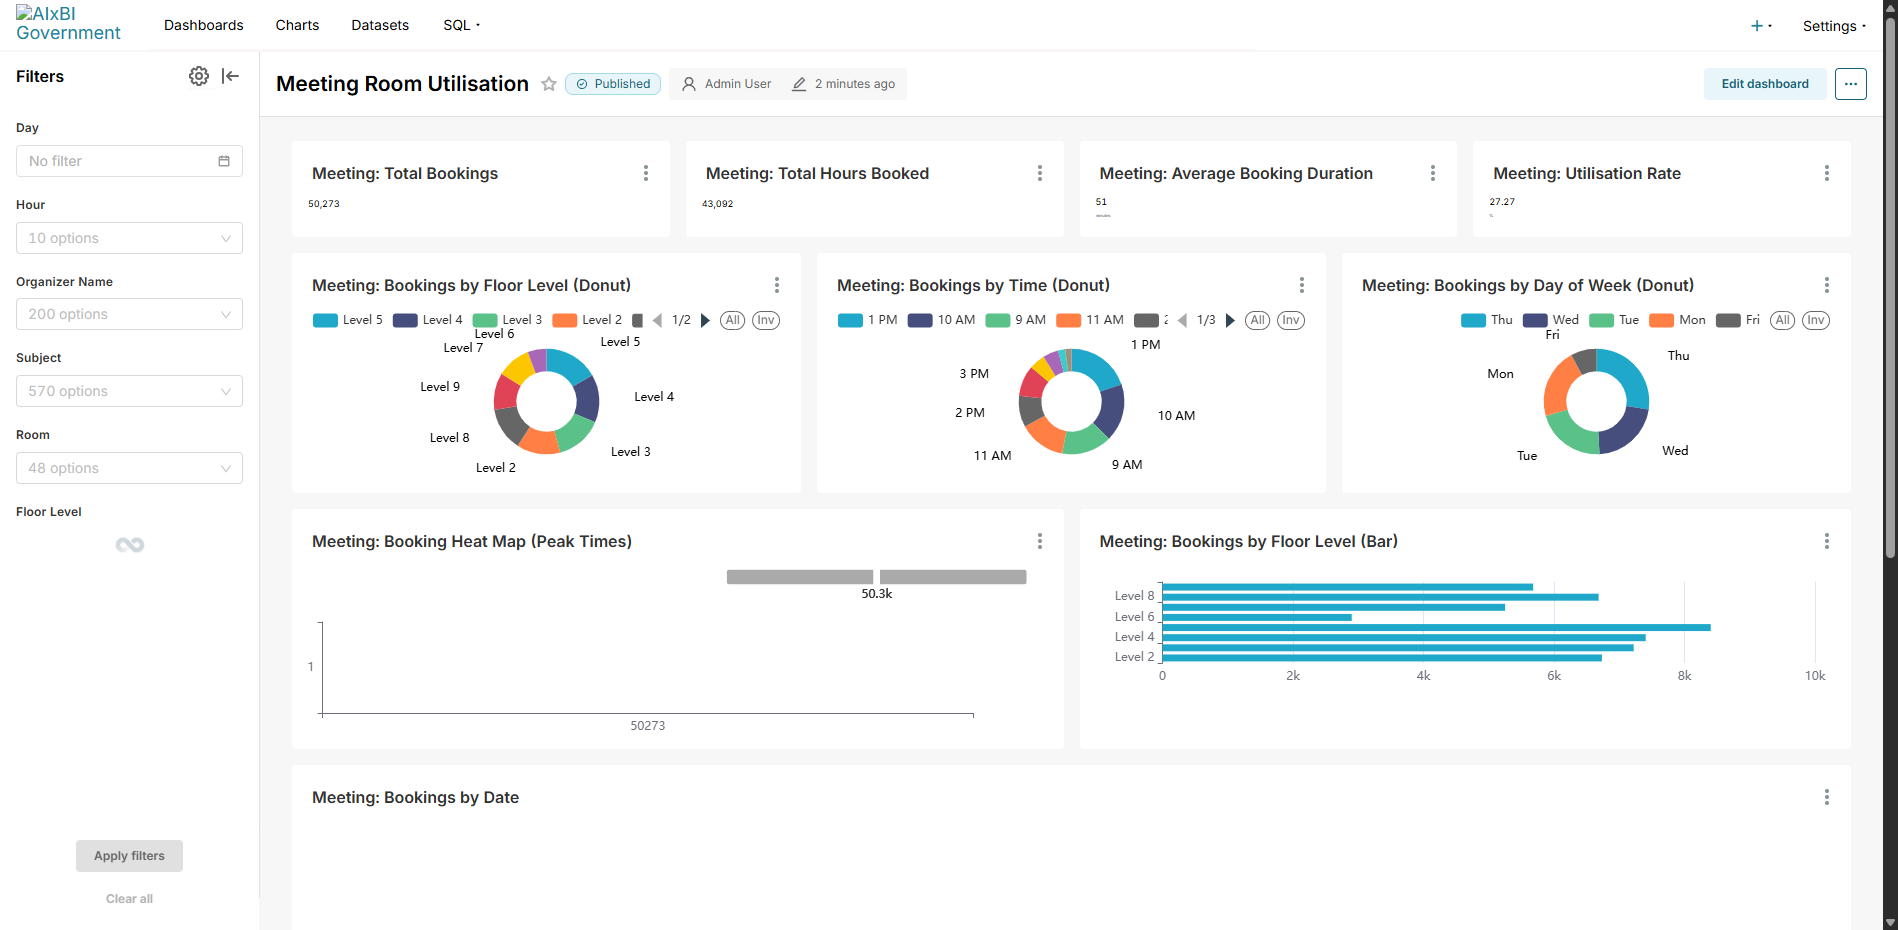
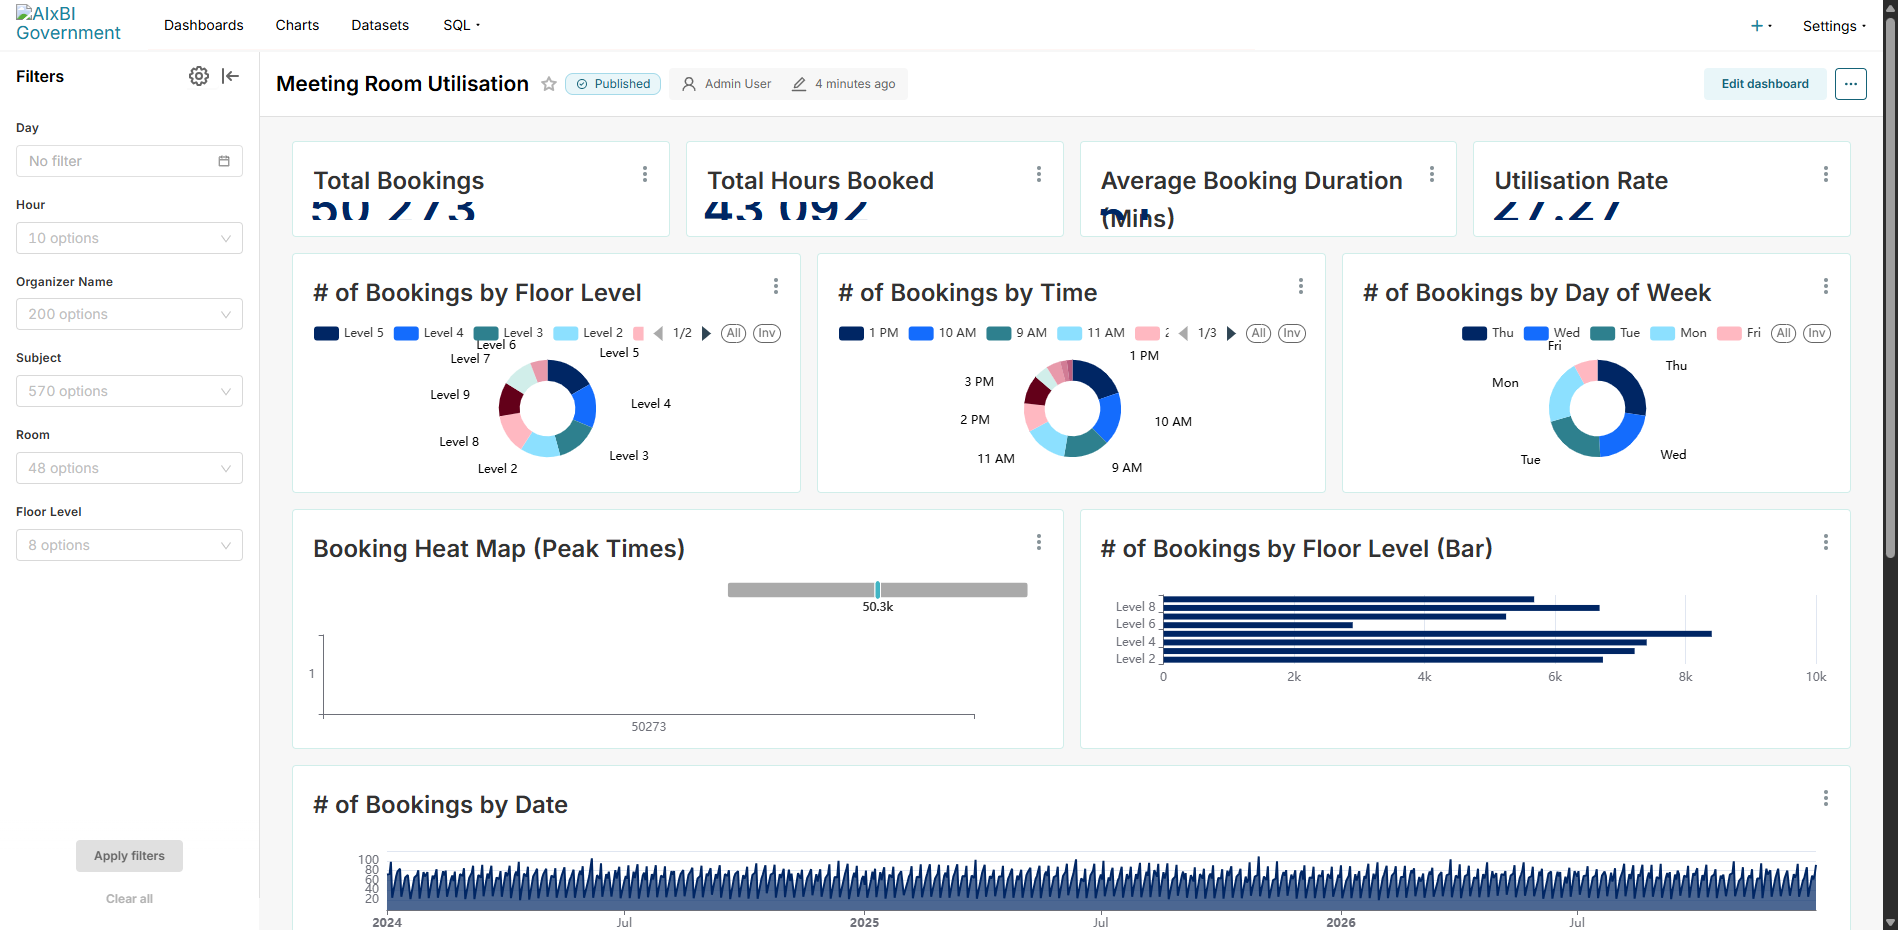
feat: polish Meeting dashboard -- custom colour scheme, CSS, KPI formatting

diff --git a/scripts/polish_meeting_charts.py b/scripts/polish_meeting_charts.py
@@ -1,0 +1,130 @@
+import sys
+import os
+import json
+sys.path.insert(0, os.path.join(os.path.dirname(__file__), ".."))
+from scripts.superset_client import api_get, api_put
+
+PINK_RED_8 = ["#ffb8c1", "#e89aab", "#d17c95", "#ba5e7f", "#a34069", "#8c2253", "#75043d", "#630019"]
+FLOOR_COLORS = {f"Level {i}": PINK_RED_8[i - 2] for i in range(2, 10)}
+DOW_COLORS = {"Mon": "#002664", "Tue": "#146cfd", "Wed": "#2e808e", "Thu": "#8ce0ff", "Fri": "#ffb8c1"}
+
+
+def get_meeting_charts():
+    data = api_get("/api/v1/chart/")
+    return {ch["slice_name"]: ch for ch in data.get("result", []) if "Meeting:" in ch.get("slice_name", "")}
+
+
+def update_chart(chart_id, new_name, params_override):
+    detail = api_get(f"/api/v1/chart/{chart_id}")
+    existing_params = json.loads(detail.get("result", {}).get("params", "{}"))
+    existing_params.update(params_override)
+    api_put(f"/api/v1/chart/{chart_id}", {
+        "slice_name": new_name,
+        "params": json.dumps(existing_params),
+    })
+    print(f"  {new_name} (id={chart_id})")
+
+
+def main():
+    charts = get_meeting_charts()
+    print(f"Found {len(charts)} charts to polish.\n")
+
+    if "Meeting: Total Bookings" in charts:
+        update_chart(charts["Meeting: Total Bookings"]["id"], "Total Bookings", {
+            "header_font_size": 0.4,
+            "subheader_font_size": 0.15,
+            "y_axis_format": ",d",
+            "color_picker": {"r": 0, "g": 38, "b": 100, "a": 1},
+        })
+
+    if "Meeting: Total Hours Booked" in charts:
+        update_chart(charts["Meeting: Total Hours Booked"]["id"], "Total Hours Booked", {
+            "header_font_size": 0.4,
+            "subheader_font_size": 0.15,
+            "y_axis_format": ",.0f",
+            "color_picker": {"r": 0, "g": 38, "b": 100, "a": 1},
+        })
+
+    if "Meeting: Average Booking Duration" in charts:
+        update_chart(charts["Meeting: Average Booking Duration"]["id"], "Average Booking Duration (Mins)", {
+            "header_font_size": 0.4,
+            "subheader_font_size": 0.15,
+            "y_axis_format": ".0f",
+            "subheader": "",
+            "color_picker": {"r": 0, "g": 38, "b": 100, "a": 1},
+        })
+
+    if "Meeting: Utilisation Rate" in charts:
+        update_chart(charts["Meeting: Utilisation Rate"]["id"], "Utilisation Rate", {
+            "header_font_size": 0.4,
+            "subheader_font_size": 0.15,
+            "y_axis_format": ".2f",
+            "subheader": "%",
+            "color_picker": {"r": 0, "g": 38, "b": 100, "a": 1},
+        })
+
+    if "Meeting: Bookings by Floor Level (Donut)" in charts:
+        update_chart(charts["Meeting: Bookings by Floor Level (Donut)"]["id"], "# of Bookings by Floor Level", {
+            "color_scheme": "nsw_navy",
+            "label_colors": FLOOR_COLORS,
+            "donut": True,
+            "innerRadius": 40,
+            "show_labels": True,
+            "show_legend": True,
+            "show_labels_threshold": 5,
+        })
+
+    if "Meeting: Bookings by Time (Donut)" in charts:
+        update_chart(charts["Meeting: Bookings by Time (Donut)"]["id"], "# of Bookings by Time", {
+            "color_scheme": "nsw_navy",
+            "donut": True,
+            "innerRadius": 40,
+            "show_labels": True,
+            "show_legend": True,
+        })
+
+    if "Meeting: Bookings by Day of Week (Donut)" in charts:
+        update_chart(charts["Meeting: Bookings by Day of Week (Donut)"]["id"], "# of Bookings by Day of Week", {
+            "color_scheme": "nsw_navy",
+            "label_colors": DOW_COLORS,
+            "donut": True,
+            "innerRadius": 40,
+            "show_labels": True,
+            "show_legend": True,
+        })
+
+    if "Meeting: Booking Heat Map (Peak Times)" in charts:
+        update_chart(charts["Meeting: Booking Heat Map (Peak Times)"]["id"], "Booking Heat Map (Peak Times)", {
+            "linear_color_scheme": "nsw_heatmap",
+        })
+
+    if "Meeting: Bookings by Floor Level (Bar)" in charts:
+        update_chart(charts["Meeting: Bookings by Floor Level (Bar)"]["id"], "# of Bookings by Floor Level (Bar)", {
+            "color_scheme": "nsw_navy",
+        })
+
+    if "Meeting: Bookings & Duration by Day of Week" in charts:
+        update_chart(charts["Meeting: Bookings & Duration by Day of Week"]["id"], "# of Bookings & Duration by Day of Week", {
+            "color_scheme": "nsw_navy",
+        })
+
+    if "Meeting: Bookings by Room" in charts:
+        update_chart(charts["Meeting: Bookings by Room"]["id"], "# of Bookings by Room", {
+            "color_scheme": "nsw_navy",
+        })
+
+    if "Meeting: Utilisation Rate by Room Name" in charts:
+        update_chart(charts["Meeting: Utilisation Rate by Room Name"]["id"], "Utilisation Rate by Room Name", {
+            "color_scheme": "nsw_navy",
+        })
+
+    if "Meeting: Bookings by Date" in charts:
+        update_chart(charts["Meeting: Bookings by Date"]["id"], "# of Bookings by Date", {
+            "color_scheme": "nsw_navy",
+        })
+
+    print(f"\nDone. {len(charts)} charts polished.")
+
+
+if __name__ == "__main__":
+    main()

diff --git a/tests/test_meeting_charts.py b/tests/test_meeting_charts.py
@@ -14,18 +14,32 @@ def headers():
     return {"Authorization": f"Bearer {token}", "Content-Type": "application/json"}
 
 
+def get_meeting_dashboard_id(headers):
+    resp = requests.get(f"{BASE_URL}/api/v1/dashboard/", headers=headers)
+    for d in resp.json().get("result", []):
+        if "Meeting" in d.get("dashboard_title", ""):
+            return d["id"]
+    return None
+
+
 def get_charts(headers):
-    resp = requests.get(
-        f"{BASE_URL}/api/v1/chart/",
-        headers=headers,
-        params={"q": "(filters:!((col:slice_name,opr:ct,value:'Meeting')))"}
-    )
+    dash_id = get_meeting_dashboard_id(headers)
+    if not dash_id:
+        return []
+    resp = requests.get(f"{BASE_URL}/api/v1/dashboard/{dash_id}/charts", headers=headers)
     return resp.json().get("result", [])
 
 
 def test_meeting_charts_count(headers):
     charts = get_charts(headers)
     assert len(charts) >= 13
+
+
+def test_no_meeting_prefix_in_names(headers):
+    charts = get_charts(headers)
+    names = [c["slice_name"] for c in charts]
+    assert not any(n.startswith("Meeting:") for n in names), \
+        f"Charts still have 'Meeting:' prefix: {[n for n in names if n.startswith('Meeting:')]}"
 
 
 def test_kpi_total_bookings_exists(headers):
@@ -68,7 +82,7 @@ def test_heatmap_exists(headers):
 
 def test_bar_charts_exist(headers):
     charts = get_charts(headers)
-    viz_types = [c.get("viz_type", "") for c in charts]
+    viz_types = [c.get("form_data", {}).get("viz_type", "") for c in charts]
     bar_count = sum(1 for v in viz_types if "bar" in v.lower())
     assert bar_count >= 3
 

diff --git a/scripts/apply_meeting_css.py b/scripts/apply_meeting_css.py
@@ -1,0 +1,53 @@
+import sys
+import os
+sys.path.insert(0, os.path.join(os.path.dirname(__file__), ".."))
+from scripts.superset_client import api_get, api_put
+
+CSS = """
+.dashboard-content {
+    font-family: 'Inter', -apple-system, BlinkMacSystemFont, 'Segoe UI', sans-serif;
+}
+.header-title {
+    color: #002664 !important;
+    font-weight: 700 !important;
+    font-size: 24px !important;
+}
+.superset-legacy-chart-big-number .header-line {
+    color: #002664 !important;
+    font-size: 48px !important;
+    font-weight: 700 !important;
+}
+.superset-legacy-chart-big-number .subheader-line {
+    color: #002664 !important;
+    font-size: 16px !important;
+    font-weight: 400 !important;
+    text-transform: uppercase;
+}
+.dashboard-component-chart-holder {
+    border-radius: 8px;
+    box-shadow: 0 1px 4px rgba(0, 38, 100, 0.08);
+    border: 1px solid #d1eeea;
+}
+.filter-bar {
+    background-color: #f8fbff !important;
+    border-right: 2px solid #002664 !important;
+}
+"""
+
+
+def get_meeting_dashboard_id():
+    data = api_get("/api/v1/dashboard/")
+    for d in data.get("result", []):
+        if "Meeting" in d.get("dashboard_title", ""):
+            return d["id"]
+    raise RuntimeError("Meeting dashboard not found")
+
+
+def main():
+    dash_id = get_meeting_dashboard_id()
+    api_put(f"/api/v1/dashboard/{dash_id}", {"css": CSS})
+    print(f"CSS applied to dashboard id={dash_id}")
+
+
+if __name__ == "__main__":
+    main()

diff --git a/scripts/set_dashboard_color_scheme.py b/scripts/set_dashboard_color_scheme.py
@@ -1,0 +1,24 @@
+import sys
+import os
+import json
+sys.path.insert(0, os.path.join(os.path.dirname(__file__), ".."))
+from scripts.superset_client import api_get, api_put
+
+
+def main():
+    data = api_get("/api/v1/dashboard/")
+    for d in data.get("result", []):
+        if "Meeting" in d.get("dashboard_title", ""):
+            dash_id = d["id"]
+            detail = api_get(f"/api/v1/dashboard/{dash_id}")
+            meta = json.loads(detail.get("result", {}).get("json_metadata", "{}"))
+            meta["color_scheme"] = "nsw_navy"
+            meta["label_colors"] = {}
+            api_put(f"/api/v1/dashboard/{dash_id}", {"json_metadata": json.dumps(meta)})
+            print(f"Dashboard {dash_id} colour scheme set to nsw_navy")
+            return
+    print("Meeting dashboard not found")
+
+
+if __name__ == "__main__":
+    main()

diff --git a/superset/superset_config.py b/superset/superset_config.py
@@ -9,7 +9,18 @@ EXTRA_CATEGORICAL_COLOR_SCHEMES = [
         "label": "NSW Health",
         "isDefault": False,
         "colors": ["#002664", "#146cfd", "#2e808e", "#8ce0ff", "#ffb8c1", "#630019", "#d1eeea"],
-    }
+    },
+    {
+        "id": "nsw_navy",
+        "description": "NSW Navy palette (extended 12-colour)",
+        "label": "NSW Navy",
+        "isDefault": False,
+        "colors": [
+            "#002664", "#146cfd", "#2e808e", "#8ce0ff",
+            "#ffb8c1", "#630019", "#d1eeea", "#e89aab",
+            "#d17c95", "#ba5e7f", "#a34069", "#8c2253",
+        ],
+    },
 ]
 SQLALCHEMY_DATABASE_URI = os.environ.get(
     "SQLALCHEMY_DATABASE_URI",
